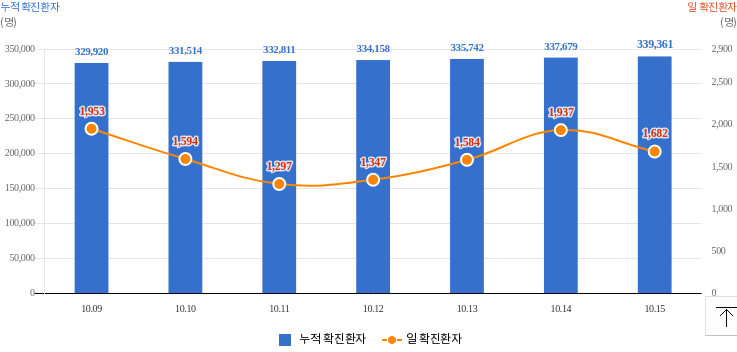
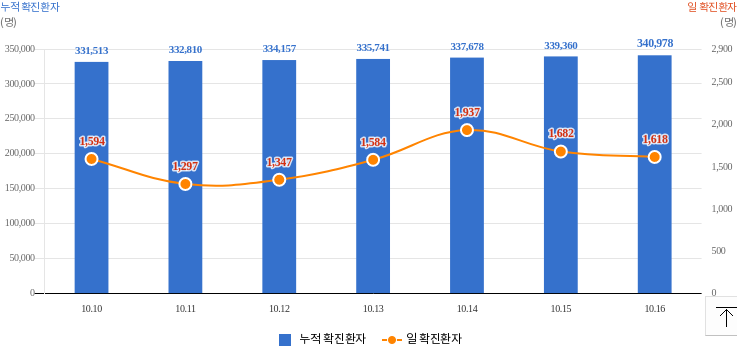
Run crawler and update current data

diff --git a/data.js b/data.js
@@ -7,7 +7,7 @@ var 검사중 = '1,760';
 var 검사결과 = '471,042';
 var 자가격리자 = '567';
 var 거리두기단계 = '사회적 거리두기  3단계 시행 : 2021.10.4.(월) 0시 ~ 10.17.(일) 24시';
-var 국내발생 = '1,670';
-var 해외발생 = '14';
-var 합계 = '1684';
+var 국내발생 = '1,594';
+var 해외발생 = '24';
+var 합계 = '1618';
 var data = [];
